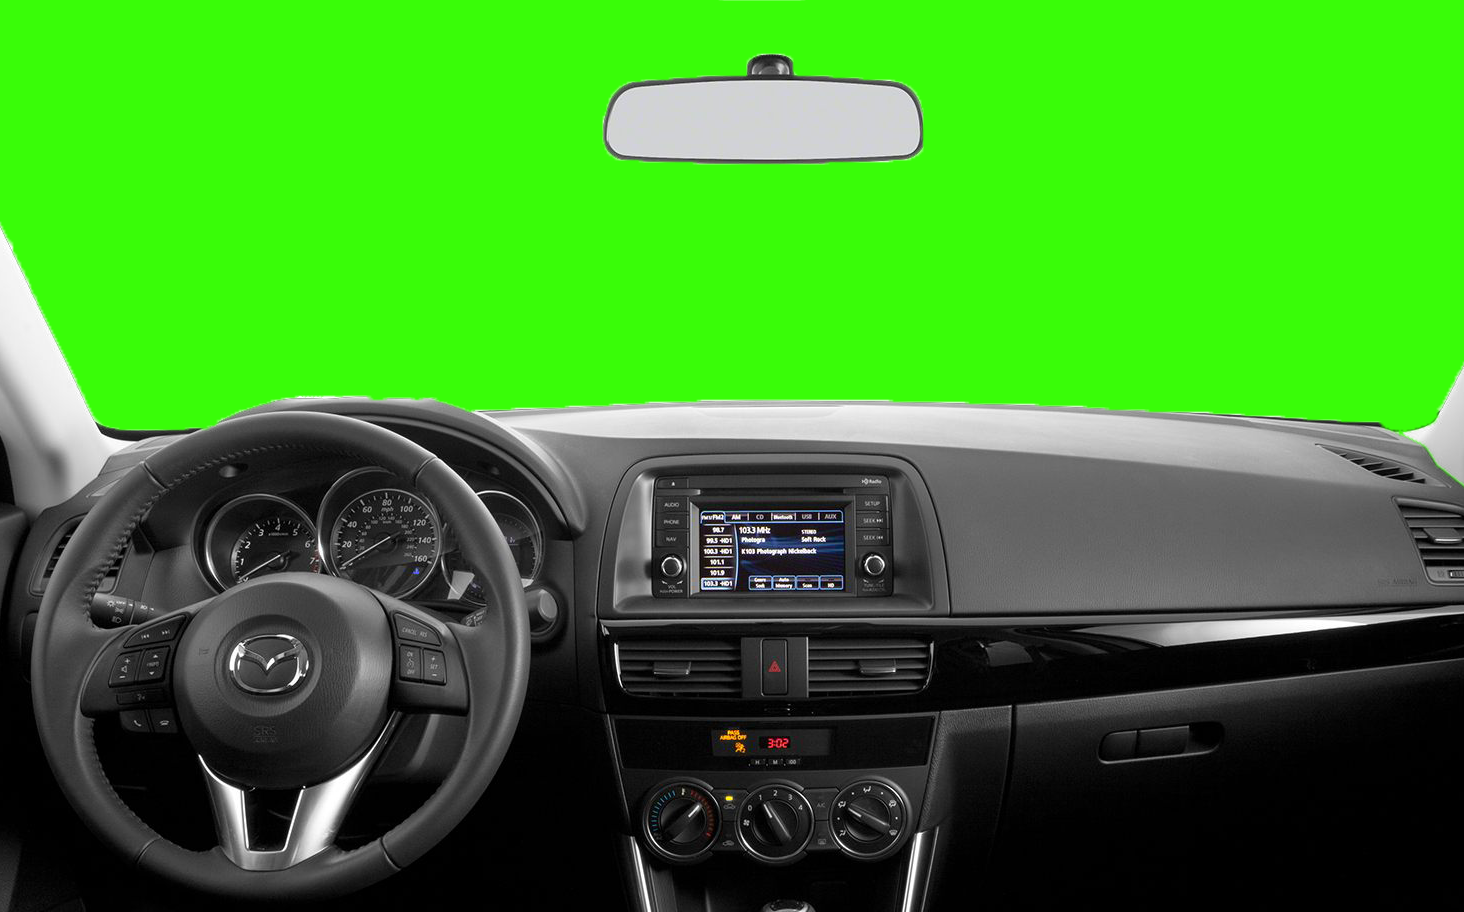
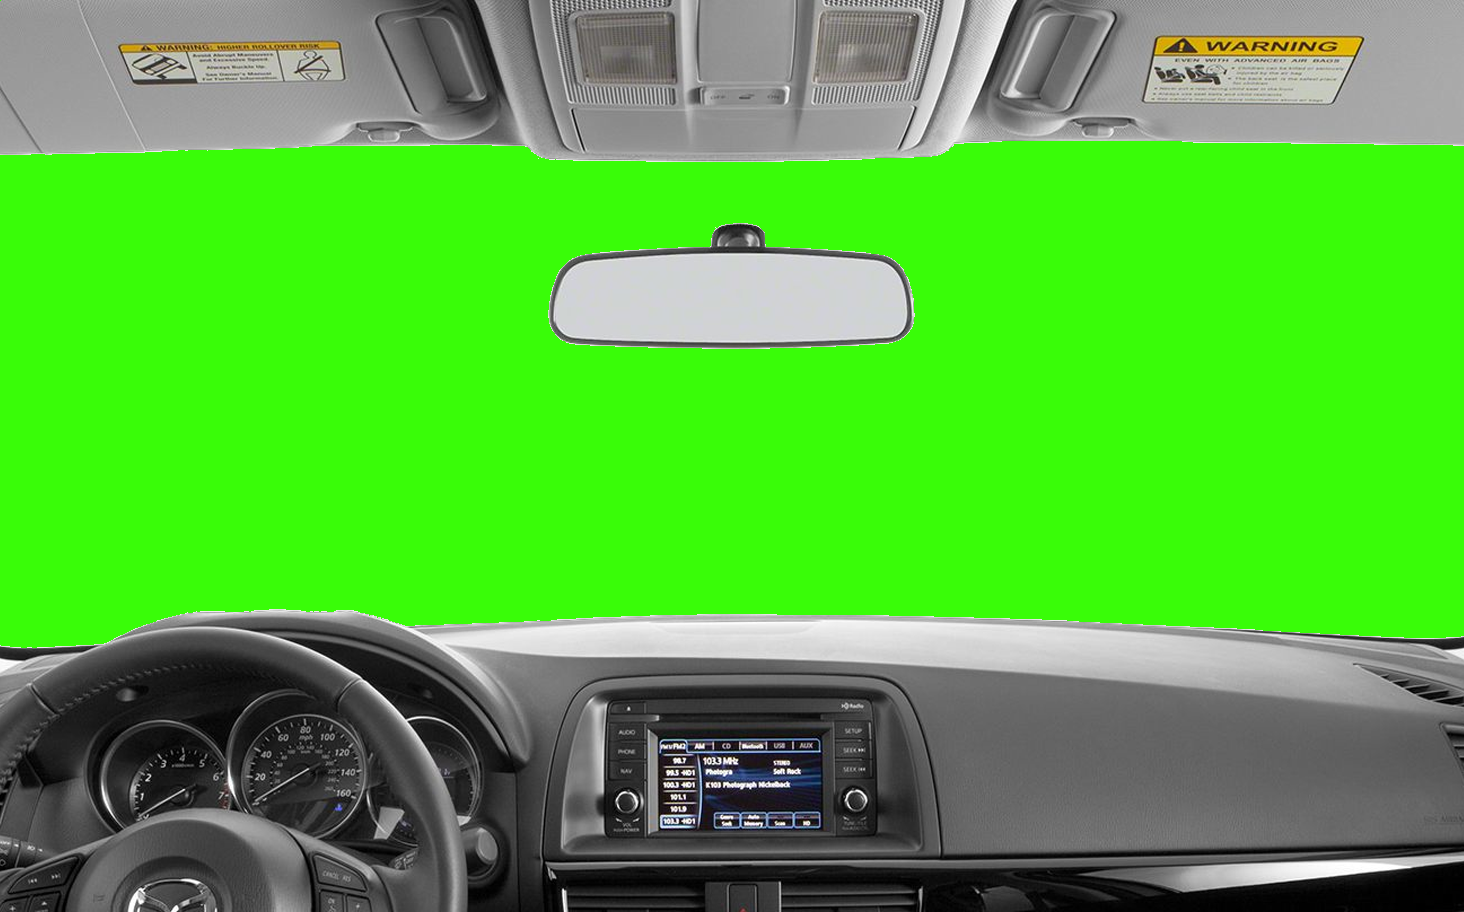
Fixed dash texture

diff --git a/daveR.cpp b/daveR.cpp
@@ -23,6 +23,7 @@ extern Game g;
 using namespace std;
 
 GLuint inCarTexture;
+Ppmimage* sprite;
 int displayDash=1;
 //int w=0, h=0;
 //void initOpengl(void);
@@ -33,6 +34,9 @@ void showInCar(Game& g)
     	//Next line added
         glPushMatrix();
 	glBindTexture(GL_TEXTURE_2D, inCarTexture);
+	glEnable(GL_ALPHA_TEST);
+	glAlphaFunc(GL_GREATER, 0.0f);
+	glColor4ub(255,255,255,255);
 	glBegin(GL_QUADS);
 		glTexCoord2f(0.0f, 1.0f); glVertex2i(0, 0);
 		glTexCoord2f(0.0f, 0.0f); glVertex2i(0, g.yres);
@@ -45,46 +49,15 @@ void showInCar(Game& g)
   
 void initCarPics(void)
 {
-	g.inCarImage = ppm6GetImage("./images/inCarPic.ppm");
-	glGenTextures(1 , &inCarTexture);
+	sprite = ppm6GetImage("images/inCarPic.ppm");
+	glGenTextures(1, &inCarTexture);
 	glBindTexture(GL_TEXTURE_2D, inCarTexture);
 	glTexParameteri(GL_TEXTURE_2D,GL_TEXTURE_MAG_FILTER,GL_NEAREST);
 	glTexParameteri(GL_TEXTURE_2D,GL_TEXTURE_MIN_FILTER,GL_NEAREST);
-	glTexImage2D(GL_TEXTURE_2D, 0, GL_RGB,
-			g.inCarImage->width, g.inCarImage->height,
-			0, GL_RGB, GL_UNSIGNED_BYTE, g.inCarImage->data);	
-	//Ppmimage *inCarImage=NULL;
-	//OpenGL initialization
-	glViewport(0, 0, g.xres, g.yres);
-	//Initialize matrices
-	glMatrixMode(GL_PROJECTION); glLoadIdentity();
-	glMatrixMode(GL_MODELVIEW); glLoadIdentity();
-	//This sets 2D mode (no perspective)
-	glOrtho(0, g.xres, 0, g.yres, -1, 1);
-	//
-	glDisable(GL_LIGHTING);
-	glDisable(GL_DEPTH_TEST);
-	glDisable(GL_FOG);
-	glDisable(GL_CULL_FACE);
-	//
-	//Clear the screen
-	glClearColor(1.0, 1.0, 1.0, 1.0);
-	//glClear(GL_COLOR_BUFFER_BIT);
-	//Do this to allow fonts
-	glEnable(GL_TEXTURE_2D);
-	initialize_fonts();
-	//
-	//load the images file into a ppm structure.
-	//
-	//g.inCarImage = ppm6GetImage("inCarPic.ppm");
-	glBindTexture(GL_TEXTURE_2D, inCarTexture);
-	//
-	glTexParameteri(GL_TEXTURE_2D,GL_TEXTURE_MAG_FILTER,GL_NEAREST);
-	glTexParameteri(GL_TEXTURE_2D,GL_TEXTURE_MIN_FILTER,GL_NEAREST);
-	glTexImage2D(GL_TEXTURE_2D, 0, GL_RGB,g.inCarImage->width, 
-		g.inCarImage->height, 0, GL_RGB, GL_UNSIGNED_BYTE, 
-		g.inCarImage->data);
-		
+	unsigned char *texData = buildAlphaData(sprite);	
+	glTexImage2D(GL_TEXTURE_2D, 0, GL_RGBA, sprite->width, sprite->height, 0,
+			GL_RGBA, GL_UNSIGNED_BYTE, texData);
+	free(texData);
 }
 void initObstacles(std::list<RoadObstacle*>& obstacles)
 {

diff --git a/car.cpp b/car.cpp
@@ -454,10 +454,9 @@ void render(void)
 		//r.left = 10;
 		//r.center = 0;
 		//ggprint8b(&r, 16, 0x00887766, "Drunk Driver");
+		showInCar(g);
 		#ifdef DEBUG
 		drawDebugInfo(g);
-		#else
-		showInCar(g);
 		#endif
 		glPopAttrib();
 		//Blackout if need be
